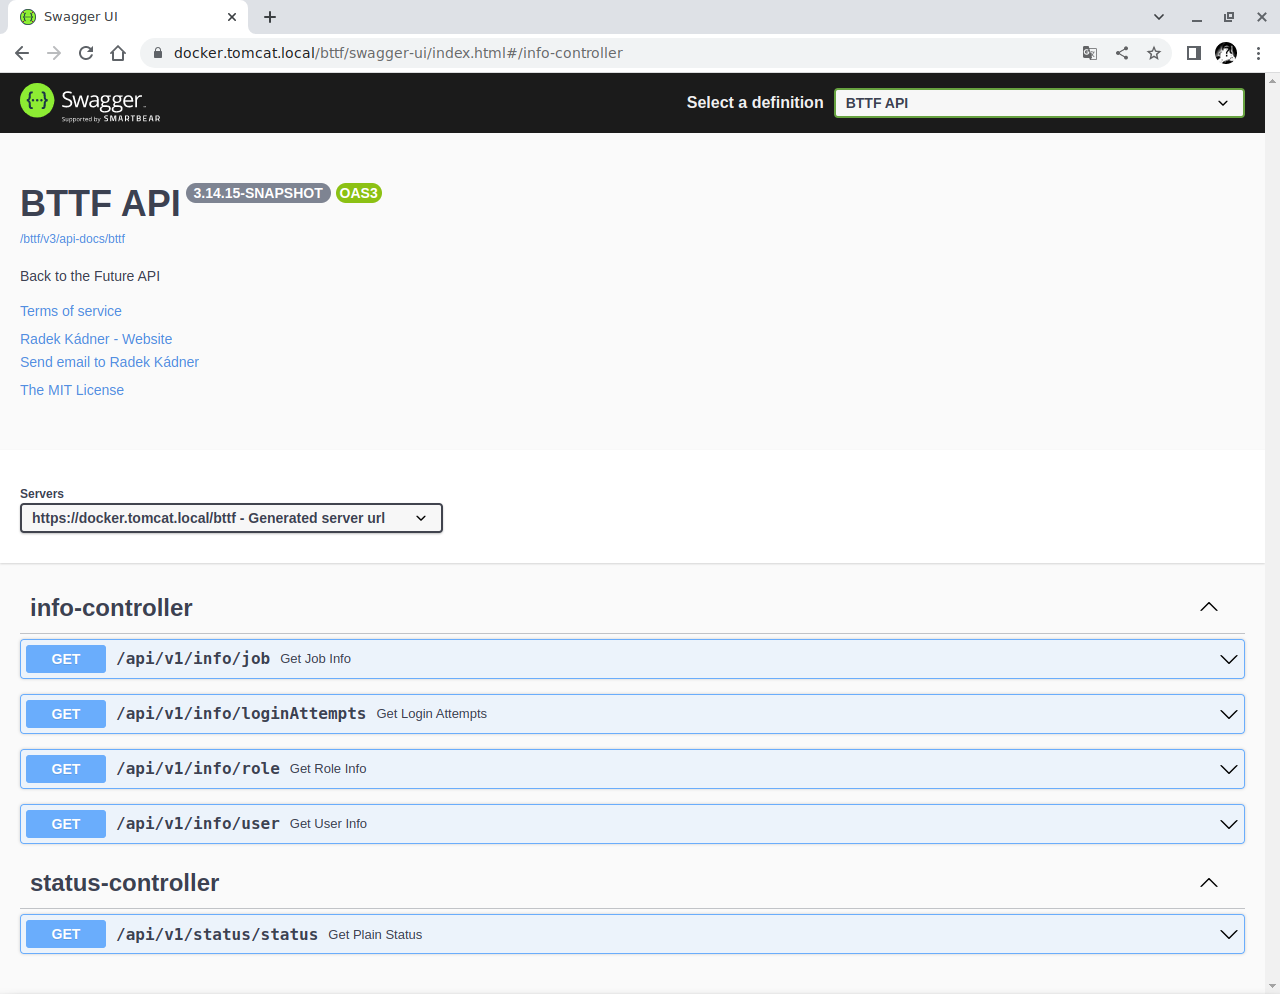
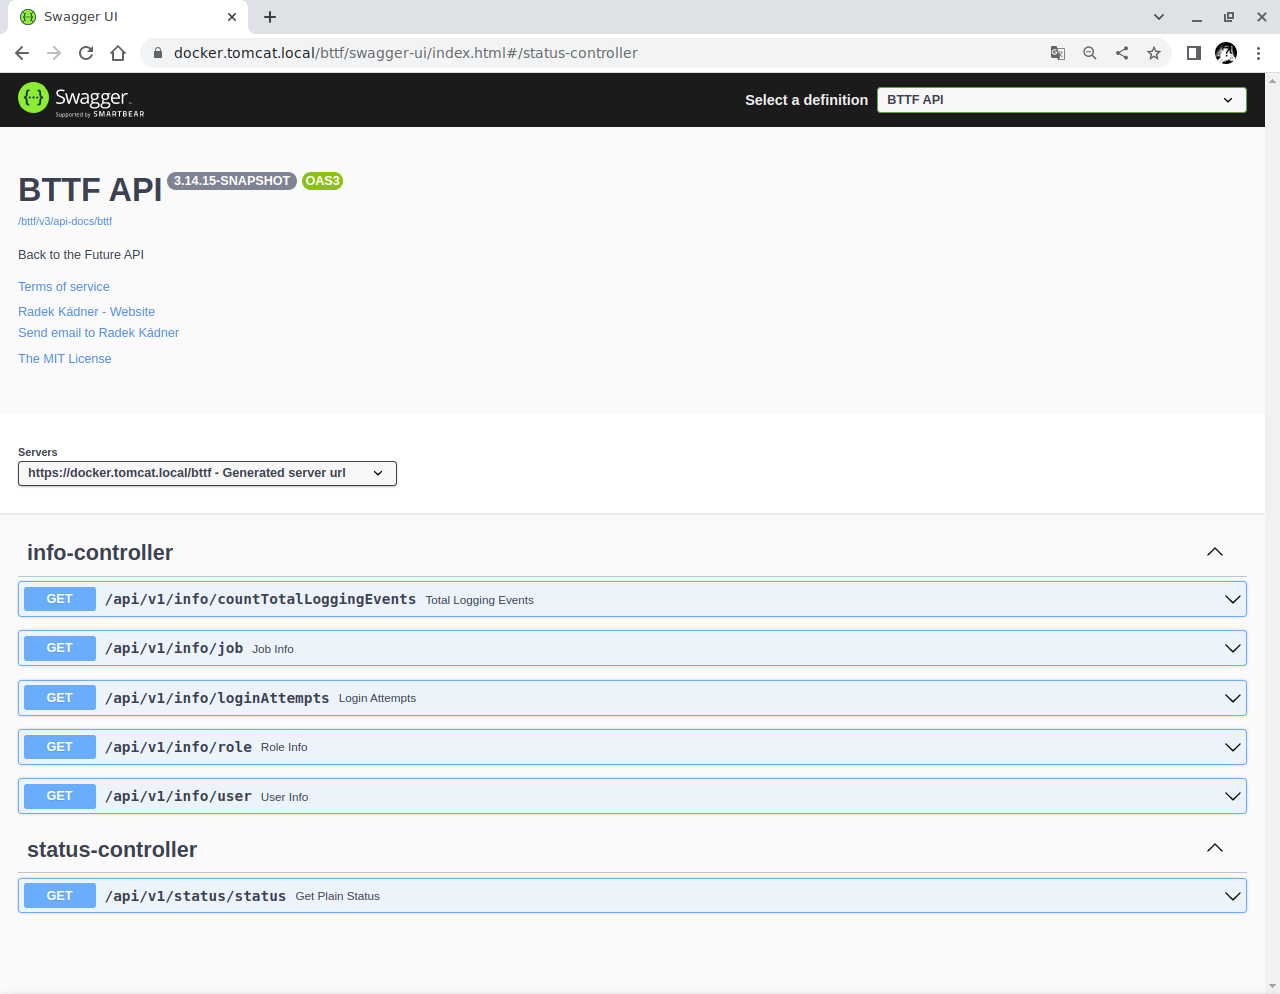
.

diff --git a/bttf-impl/src/main/kotlin/local/intranet/bttf/api/controller/InfoController.kt b/bttf-impl/src/main/kotlin/local/intranet/bttf/api/controller/InfoController.kt
@@ -88,7 +88,7 @@ public class InfoController {
     @GetMapping(value = arrayOf("/user"), produces = arrayOf(MediaType.APPLICATION_JSON_VALUE))
     @Operation(
         operationId = "getUserInfo",
-        summary = "Get User Info",
+        summary = "User Info",
         description = "Get User Info\n\n"
                 + "This method is calling UserService.getUserInfo\n\n",
         // + "See <a href=\"/bttf-javadoc/local/intranet/bttf/api/controller/InfoController.html#"
@@ -134,7 +134,7 @@ public class InfoController {
     @GetMapping(value = arrayOf("/role"), produces = arrayOf(MediaType.APPLICATION_JSON_VALUE))
     @Operation(
         operationId = "getRoleInfo",
-        summary = "Get Role Info",
+        summary = "Role Info",
         description = "Get Role Info\n\n"
                 + "This method is calling RoleService.getRoleInfo\n\n",
         // + "See <a href=\"/bttf-javadoc/local/intranet/bttf/api/controller/InfoController.html#"
@@ -163,7 +163,7 @@ public class InfoController {
     @GetMapping(value = arrayOf("/job"), produces = arrayOf(MediaType.APPLICATION_JSON_VALUE))
     @Operation(
         operationId = "getJobInfo",
-        summary = "Get Job Info",
+        summary = "Job Info",
         description = "Get Job Info\n\n"
                 + "This method is calling JobService.getJobInfo\n\n",
         // + "See <a href=\"/bttf-javadoc/local/intranet/bttf/api/controller/InfoController.html#"
@@ -194,7 +194,7 @@ public class InfoController {
     @GetMapping(value = arrayOf("/loginAttempts"), produces = arrayOf(MediaType.APPLICATION_JSON_VALUE))
     @Operation(
         operationId = "getLoginAttempts",
-        summary = "Get Login Attempts",
+        summary = "Login Attempts",
         description = "Get Login Attempts\n\n"
                 + "This method get loggin attempts\n\n",
         // + "See <a href=\"/bttf-javadoc/local/intranet/bttf/api/controller/InfoController.html#"
@@ -224,7 +224,7 @@ public class InfoController {
     @GetMapping(value = arrayOf("/countTotalLoggingEvents"), produces = arrayOf(MediaType.APPLICATION_JSON_VALUE))
     @Operation(
         operationId = "countTotalLoggingEvents",
-        summary = "Count Total Logging Events",
+        summary = "Total Logging Events",
         description = "Count Total Logging Events\n\n"
                 + "This method is calling LoggingEventService.countTotalLoggingEvents\n\n",
         // + "See <a href=\"/bttf-javadoc/local/intranet/bttf/api/controller/InfoController.html#"
